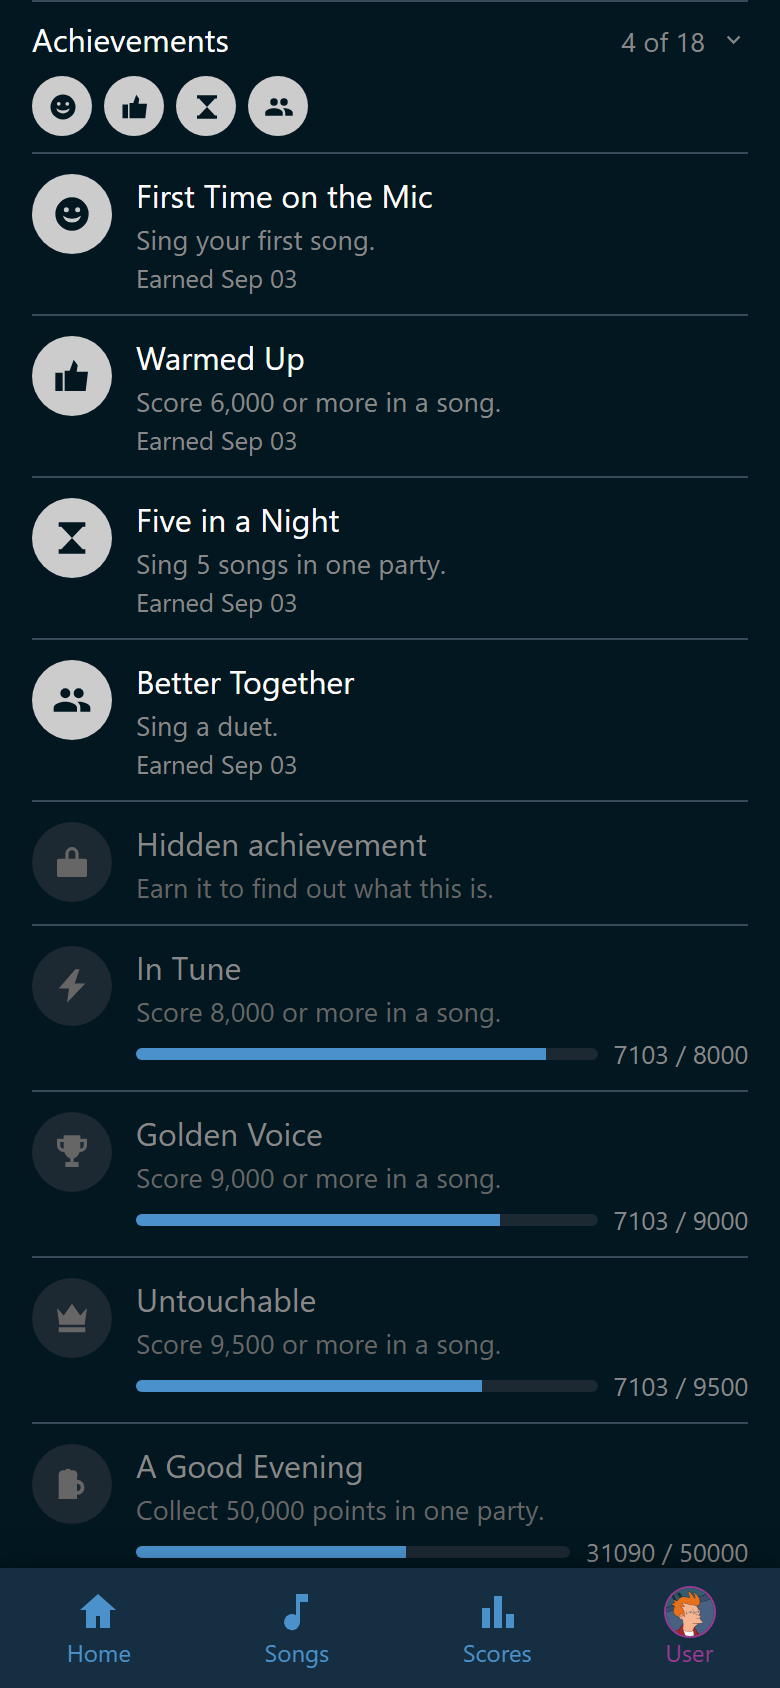
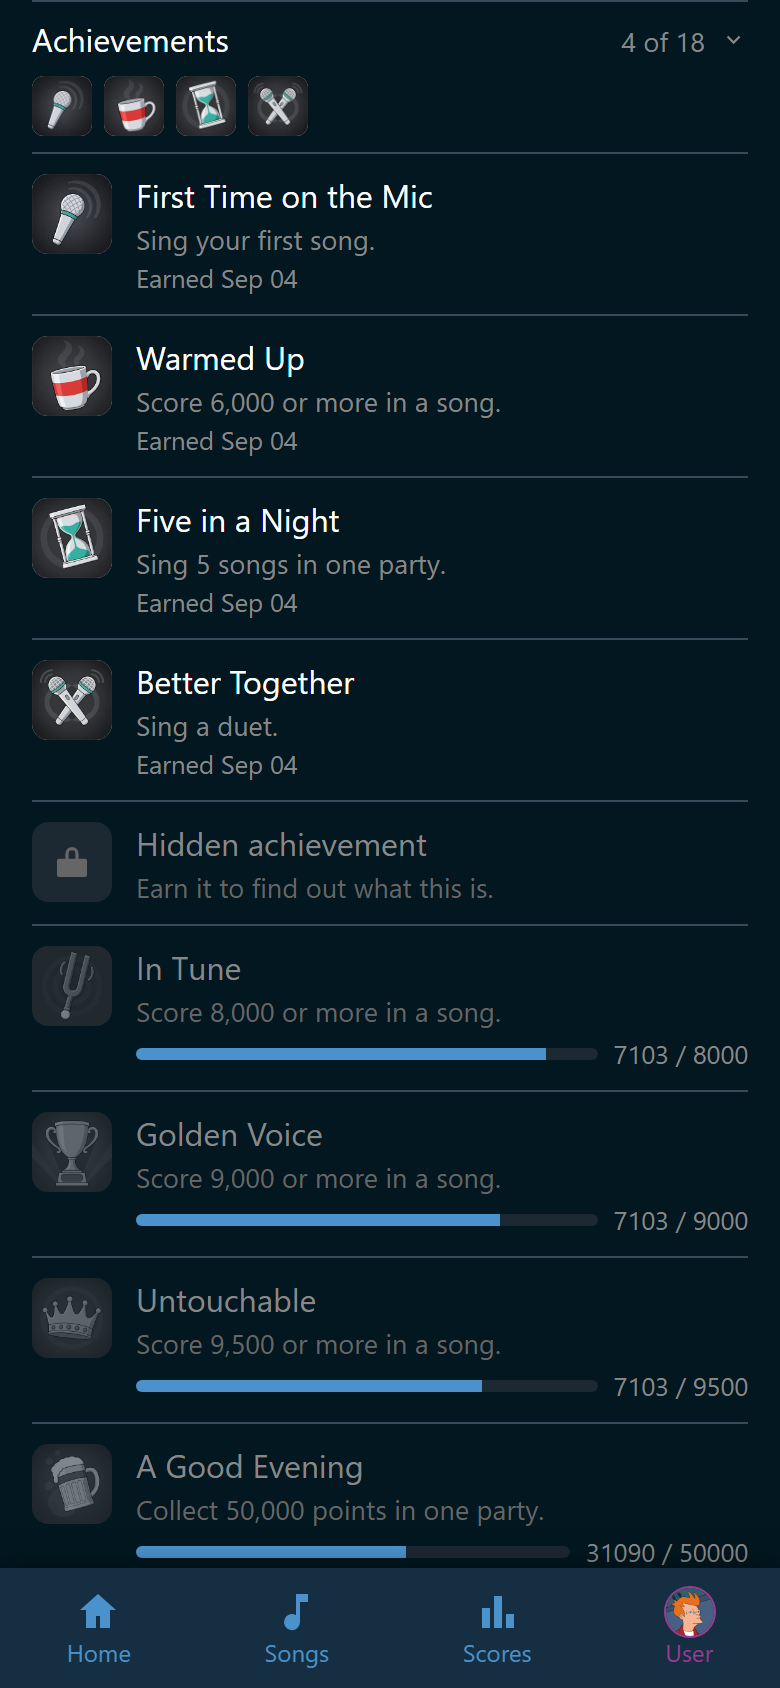
feat(achievements): badges are rounded squares, not circles
The pictures are full-bleed squares, and a circle cut the corners off every
one. Radius a fifth of the side, so the proportion holds from the 40 px row to
the TV. A glyph badge keeps its coloured plate, which is what tells it from a
tag's square now that round is gone. Screenshots recaptured.

diff --git a/frontend/src/components/AchievementBadge.css b/frontend/src/components/AchievementBadge.css
@@ -1,8 +1,13 @@
-/* The medallion (achievements.md, ui-guidelines §4). Not a tile: it is the row's
-   lead square in the shape a medal has, the same slot a tag's coloured square
-   and a playlist's cover mosaic sit in — round rather than 8px-rounded, because
-   that is what tells a badge from a tag at a glance and because a percentage
-   radius is the one that still looks right at four times the size.
+/* The badge (achievements.md, ui-guidelines §4). Not a tile: it is the row's
+   lead square, the same slot a tag's coloured square and a playlist's cover
+   mosaic sit in. A rounded square rather than a circle, because the pictures
+   are square (docs/dev/achievement-artwork.md: a full-bleed plate with the
+   motif filling it, and a circle would cut the corners off every one of them).
+   The radius is a fifth of the side — the 8px of `--border-radius-small` at the
+   40px row size, and still the same proportion at four times that on the TV,
+   which a fixed 8px would not be. What tells a badge from a tag now is the
+   plate: a glyph badge's is the achievement's own colour, a tag's is
+   `--input-bg` (Tags.css), and a picture badge is a picture.
 
    Everything is in `em`, so the parent's `font-size` is the size control (§3):
    16px of text gives the 40px square a list row leads with, and the host
@@ -15,7 +20,7 @@
   width: 2.5em;
   height: 2.5em;
   overflow: hidden;
-  border-radius: 50%;
+  border-radius: 0.5em;
 }
 
 /* Earned: the plate carries the achievement's colour, which the `tag-color-*`
@@ -42,8 +47,9 @@
   font-size: 1.25em;
 }
 
-/* An uploaded picture replaces the glyph and fills the plate. Square or not,
-   the medallion crops it — a badge is a badge's shape. */
+/* A picture — uploaded, or the one Wingman ships with a built-in — replaces the
+   glyph and fills the plate. Square or not, the badge crops it to its own
+   shape, and the rounding takes the corners off a square one. */
 .achievement-badge-image {
   width: 100%;
   height: 100%;

diff --git a/frontend/src/pages/Achievements.tsx b/frontend/src/pages/Achievements.tsx
@@ -109,14 +109,14 @@ interface RowsProps {
 }
 
 /**
- * One list of achievements, whoever made them: the medallion, the name over the
+ * One list of achievements, whoever made them: the badge, the name over the
  * achievement's own description, a chevron, the whole row leading into the
  * editor.
  *
  * What the row says beyond that is only what is unusual about it. `hidden` is a
  * `lock` mark on the title line — the same glyph `AchievementBadge` draws over
  * a masked badge, so one achievement wears one glyph wherever it appears — and
- * a switched-off one is drawn in the off token throughout, the medallion
+ * a switched-off one is drawn in the off token throughout, the badge
  * included, with a word for a screen reader that cannot see the colour. Never a
  * count of conditions: what an achievement asks for is a thing to read in the
  * editor, not a number to compare rows by.
@@ -213,7 +213,7 @@ function AchievementRows({ achievements, reorder }: RowsProps) {
             }
             to={`/user/achievements/${encodeURIComponent(achievement.id)}`}
           >
-            {/* The medallion's own off plate says "switched off" the way the
+            {/* The badge's own off plate says "switched off" the way the
                 app says it everywhere else; in the catalogue nothing is
                 anybody's record, so nothing else is claimed by it. */}
             <AchievementBadge

diff --git a/frontend/src/components/AchievementBadge.tsx b/frontend/src/components/AchievementBadge.tsx
@@ -21,8 +21,9 @@ interface Props {
 
 /**
  * The one place a badge is drawn: the admin list, a player's record, the host
- * screen. A medallion — a plate in the achievement's colour with the glyph
- * centred, or the uploaded picture when there is one.
+ * screen. A rounded square — a plate in the achievement's colour with the
+ * glyph centred, or the picture when there is one: an uploaded one, or the one
+ * Wingman ships with a built-in (`has_image` covers both).
  *
  * Three states, and masked wins over every other: a `hidden` achievement the
  * reader has not earned is a `lock` and nothing else, whatever else the row
@@ -33,7 +34,7 @@ interface Props {
  * replaced one is drawn the moment the listing carries the new version and no
  * caller has to say that the bytes moved.
  *
- * It takes no size: the medallion is 2.5em and its glyph 1.25em of that, so the
+ * It takes no size: the badge is 2.5em and its glyph 1.25em of that, so the
  * parent's `font-size` sizes it (§3). A row's 16px makes the 40px square every
  * other list row leads with; the host screen's `clamp()` makes it a badge across
  * the room, and neither needs a prop.

diff --git a/frontend/src/components/UserAchievements.css b/frontend/src/components/UserAchievements.css
@@ -80,7 +80,7 @@
   }
 }
 
-/* The badges at rest. 0.75em makes the medallion 30px, which puts nine of them
+/* The badges at rest. 0.75em makes the badge 30px, which puts nine of them
    across a 390px phone and a full seventeen in two rows — a strip, not a wall
    that would push *Manage* off the screen. They are not controls: the summary
    around them is the one thing here that is tapped. */
@@ -102,7 +102,7 @@
   list-style: none;
 }
 
-/* A row of the list: the 40px medallion the parent's 1em gives it, then the
+/* A row of the list: the 40px badge the parent's 1em gives it, then the
    name, the sentence and either the date or the bar. Hairlines between, the
    first row separated from the strip above it the same way. */
 .user-achievement {
@@ -133,7 +133,7 @@
   overflow-wrap: anywhere;
 }
 
-/* Not earned: the app's off state, the same step down the medallion beside it
+/* Not earned: the app's off state, the same step down the badge beside it
    takes. Never greyed out to the point of being unreadable — the list is there
    to be read for what is still out there. */
 .user-achievement-off .user-achievement-name {

diff --git a/frontend/src/pages/Achievements.css b/frontend/src/pages/Achievements.css
@@ -45,7 +45,7 @@
 }
 
 /* ----------------------------------------------------------- the two listings
-   One row per achievement: the medallion, the name over the achievement's own
+   One row per achievement: the badge, the name over the achievement's own
    description, a chevron. `AchievementBadge` is sized by this row's `font-size`
    (§3), so the 40px square needs no width here.
 
@@ -159,7 +159,7 @@
   color: var(--color-darker);
 }
 
-/* Switched off: the whole row in the off token (§2), medallion included — the
+/* Switched off: the whole row in the off token (§2), badge included — the
    badge draws its own off plate. A `visually-hidden` word carries the state for
    a reader who cannot see the colour. */
 .achievements-row-off,

diff --git a/frontend/src/components/HostAchievements.css b/frontend/src/components/HostAchievements.css
@@ -41,7 +41,7 @@
   overflow-wrap: anywhere;
 }
 
-/* The row of badges. `--badge` is the one size control: the medallion is 2.5em
+/* The row of badges. `--badge` is the one size control: the badge is 2.5em
    of it and the two lines under it are sized from the same scale, so a row of
    one and a row of four differ by a number rather than by a second ruleset. */
 .host-achievement-row {
@@ -87,7 +87,7 @@
   min-width: 0;
 }
 
-/* Two classes again, and the medallion's own `em` sizing does the rest: the
+/* Two classes again, and the badge's own `em` sizing does the rest: the
    plate is 2.5em of the font-size it is given (AchievementBadge.css). */
 .host-achievement .host-achievement-badge {
   font-size: var(--badge);

diff --git a/frontend/src/pages/AchievementEditor.css b/frontend/src/pages/AchievementEditor.css
@@ -6,7 +6,7 @@
 
 /* --------------------------------------------------------------- the picture
    What stands in the icon grid's place once a picture has been uploaded: the
-   medallion as it will really be drawn, one line saying so, and the two ways
+   badge as it will really be drawn, one line saying so, and the two ways
    out of it. Flat on `--bg` like everything else (§1.1). */
 .achievement-picture {
   display: flex;
@@ -16,7 +16,7 @@
 }
 
 /* `AchievementBadge` is sized by the font around it (§3), so 2em of text makes
-   the 80px medallion this preview wants. */
+   the 80px badge this preview wants. */
 .achievement-picture-badge {
   font-size: 2em;
 }

diff --git a/frontend/src/components/UserAchievements.tsx b/frontend/src/components/UserAchievements.tsx
@@ -60,7 +60,7 @@ function earnedAt(row: PlayerAchievementRead): number {
   return row.earned_at === null ? 0 : parseServerTime(row.earned_at);
 }
 
-/** One achievement on the singer's record: the medallion, the name and the
+/** One achievement on the singer's record: the badge, the name and the
  *  sentence, and then either the day it was earned or how far along they are. */
 function AchievementRow({ row }: { row: PlayerAchievementRead }) {
   const earned = row.earned_at !== null;
